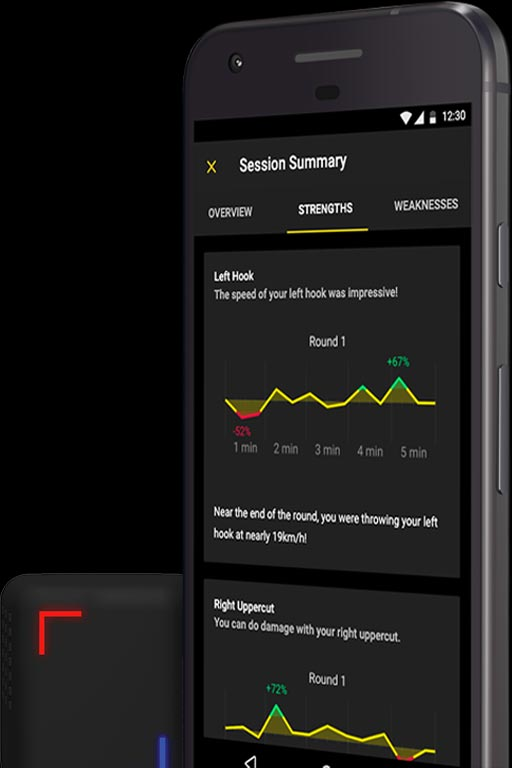
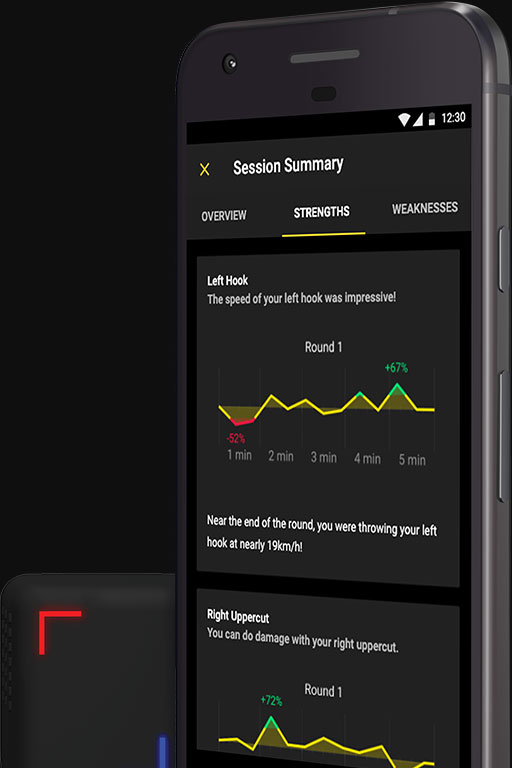
Add content to 'SparMetric' page

diff --git a/sparmetric.html b/sparmetric.html
@@ -1,31 +1,33 @@
 ---
 layout: default
+title: SparMetric - Matthew Peixoto
+theme: theme-dark
 ---
 
 <main role="main">
-  <section class="theme-dark-1 pad-t-2">
+  <section class="theme-ultradark pad-t-2">
     <div class="theme-dark-1 gutter pad-t-4 pad-b-4">
       <div class="max-length push-2">
         <img class="img-flex" src="http://placehold.it/512x768">
       </div>
       <div class="text-left-center">
         <h1 class="yotta">SparMetric</h1>
-        <p class="mega max-length push-0">SparMetric dramatically improves how you train by taking your sparring sessions to a whole new level. It provides in-depth statistics and analysis on every strike and movement. Overviews of your strengths and weaknesses. Mid-session tips to help make crucial adjustments. Achievements to keep you motivated. And the edge to help you become the best martial artist you can be.</p>
+        <p class="giga medium max-length push-0">SparMetric dramatically improves how you train by taking your sparring sessions to a whole new level. It provides in-depth statistics and analysis on every strike and movement. Overviews of your strengths and weaknesses. Mid-session tips to help make crucial adjustments. Achievements to keep you motivated. And the edge to help you become the best martial artist you can be.</p>
       </div>
     </div>
   </section>
 
-  <section class="theme-dark-1">
+  <section>
     <div class="h-w-1 relative">
       <div class="text-left-center gutter pin-c w-1 zindex-1000">
         <div class="wrapper">
-          <h2 class="giga">User Experience</h2>
-          <h3 class="zetta">Designed for martial artists by martial artists.</h3>
+          <h2 class="giga push-1-2">User Experience</h2>
+          <h3 class="zetta push-0 max-length">Designed for martial artists.</h3>
         </div>
       </div>
-      <figure class="image-sparmetric-ux h-1 w-1 push-0"></figure>
+      <figure class="image-sparmetric image-sparmetric-ux h-1 w-1 push-0"></figure>
     </div>
-    <div class="theme-dark-1 gutter pad-t-4 pad-b-4">
+    <div class="theme-ultradark gutter pad-t-4 pad-b-4">
       <div class="wrapper">
         <div class="text-center push-2">
           <img class="img-flex" src="http://placehold.it/512x512" alt="">
@@ -40,7 +42,7 @@ layout: default
         </div>
       </div>
     </div>
-    <div class="theme-dark-2 gutter pad-t-4 pad-b-4">
+    <div class="theme-dark gutter pad-t-4 pad-b-4">
       <div class="wrapper">
         <div class="text-center push-2">
           <img class="img-flex" src="http://placehold.it/512x512" alt="">
@@ -55,7 +57,7 @@ layout: default
         </div>
       </div>
     </div>
-    <div class="theme-dark-1 gutter pad-t-4 pad-b-4">
+    <div class="theme-ultradark gutter pad-t-4 pad-b-4">
       <div class="wrapper">
         <div class="text-center push-2">
           <img class="img-flex" src="http://placehold.it/512x512" alt="">
@@ -65,12 +67,12 @@ layout: default
             <h4 class="peta push-r-2 push-m-0">Every stat you’ll ever need.</h4>
           </div>
           <div class="unit s-1 m-1-2">
-            <p class="max-length-no-center push-0">SparMetric delivers every stat you’ll ever need to improve your training and keep you injury-free. These detailed stats give you and your coaches a deeper look into your skillset and are a powerful tool in helping you hone your strengths and improve on your weaknesses. And with a Headgear Sensor, you’ll know if you’ve taken too much head damage so you can stay in the best shape possible.</p>
+            <p class="max-length-no-center push-0">SparMetric gives you every stat you’ll ever need to improve your training and keep you injury-free. These detailed stats give you and your coaches a deeper look into your skillset and are a powerful tool in helping you hone your strengths and improve on your weaknesses. And with a Headgear Sensor, you’ll know if you’ve taken too much head damage so you can stay in the best shape possible.</p>
           </div>
         </div>
       </div>
     </div>
-    <div class="theme-dark-2 gutter pad-t-4 pad-b-4">
+    <div class="theme-dark gutter pad-t-4 pad-b-4">
       <div class="wrapper">
         <div class="text-center push-2">
           <img class="img-flex" src="http://placehold.it/512x512" alt="">
@@ -85,7 +87,109 @@ layout: default
         </div>
       </div>
     </div>
-
-
   </section>
+
+  <section class="theme-ultradark">
+    <div class="h-w-1 relative">
+      <div class="text-left-center gutter pin-c w-1 zindex-1000">
+        <div class="wrapper">
+          <h2 class="giga push-1-2">Personas</h2>
+          <h3 class="zetta push-0">Designed for every level.</h3>
+        </div>
+      </div>
+      <figure class="image-sparmetric image-sparmetric-personas h-1 w-1 push-0"></figure>
+    </div>
+    <div class="theme-dark gutter pad-t-4 pad-b-4">
+      <div class="wrapper">
+        <div class="text-center push-2">
+          <img class="img-flex" src="http://placehold.it/512x512" alt="">
+        </div>
+        <blockquote class="push-0">
+          <p class="max-length-no-center giga">“I’m a professional mixed martial artists. I was born to fight and have been training since I was 8 years old. SparMetric is amazing because it helps my coaches and I see the little mistakes I make during sparring that could cost me a fight. My team studies the stats for each sparring session to help me perfect my skills and keep me healthy for fights.”</p>
+          <footer>— <cite>Carlos Junior</cite></footer>
+        </blockquote>
+      </div>
+    </div>
+    <div class="theme-dark gutter pad-t-4 pad-b-4">
+      <div class="wrapper">
+        <div class="text-center push-2">
+          <img class="img-flex" src="http://placehold.it/512x512" alt="">
+        </div>
+        <blockquote class="push-0">
+          <p class="max-length-no-center giga">“I train martial arts because it keeps me in excellent shape and I love the thrill of sparring. SparMetric helps me see the improvements I’ve been making and the achievements motivate me to push harder."</p>
+          <footer>— <cite>Irene Fraser</cite></footer>
+        </blockquote>
+      </div>
+    </div>
+  </section>
+
+  <section class="theme-dark">
+    <div class="h-w-1 relative">
+      <div class="text-left-center gutter pin-c w-1 zindex-1000">
+        <div class="wrapper">
+          <h2 class="giga push-1-2">Visual Design</h2>
+          <h3 class="zetta push-0">Designed with a purpose.</h3>
+        </div>
+      </div>
+      <figure class="image-sparmetric image-sparmetric-visualdesign h-1 w-1 push-0"></figure>
+    </div>
+    <div class="theme-ultradark gutter pad-t-4 pad-b-4">
+      <div class="wrapper">
+        <div class="text-center push-2">
+          <img class="img-flex" src="http://placehold.it/512x512" alt="">
+        </div>
+        <div class="grid">
+          <div class="unit s-1 m-1-2">
+            <h4 class="peta push-r-2 push-m-0">Not just any colours.</h4>
+          </div>
+          <div class="unit s-1 m-1-2">
+            <p class="max-length-no-center push-0">SparMetric’s colour palette is sourced from Google Material and is inspired by MMA and boxing design themes. The primary colours of black and dark greys set a subdued and serious tone while the yellow accent colour adds a sense of action and energy. The secondary colours are used to represent the red and blue corners found in MMA and boxing matches are used to represent their respective stats.</p>
+          </div>
+        </div>
+      </div>
+    </div>
+     <div class="theme-dark gutter pad-t-4 pad-b-4">
+      <div class="wrapper">
+        <div class="text-center push-2">
+          <img class="img-flex" src="http://placehold.it/512x512" alt="">
+        </div>
+        <div class="grid">
+          <div class="unit s-1 m-1-2">
+            <h4 class="peta push-r-2 push-m-0">Just the right type.</h4>
+          </div>
+          <div class="unit s-1 m-1-2">
+            <p class="max-length-no-center push-0">SparMetric strictly follows the Google Material typography guidelines. Roboto is the standard typeface for Android and is extremely legible at any size and also works great on dark backgrounds. The provided Google Material typography styles are used for a consistent and familiar experience.</p>
+          </div>
+        </div>
+      </div>
+    </div>
+  </section>
+
+  <section class="theme-dark">
+    <div class="h-w-1 relative">
+      <div class="text-left-center gutter pin-c w-1 zindex-1000">
+        <div class="wrapper">
+          <h2 class="giga push-1-2">Ideation</h2>
+          <h3 class="zetta push-0">Every great idea starts with a problem and a pencil.</h3>
+        </div>
+      </div>
+      <figure class="image-sparmetric image-sparmetric-visualdesign h-1 w-1 push-0"></figure>
+    </div>
+    <div class="theme-ultradark gutter pad-t-4 pad-b-4">
+      <div class="wrapper">
+        <div class="text-center push-2">
+          <img class="img-flex" src="http://placehold.it/512x512" alt="">
+        </div>
+        <div class="grid">
+          <div class="unit s-1 m-1-2">
+            <h4 class="peta push-r-2 push-m-0">User stories.</h4>
+          </div>
+          <div class="unit s-1 m-1-2">
+            <p class="max-length-no-center push-0">Martial artists want a way to see a quick assessment of their performance in between rounds so that they can make the necessary adjustments in the following round. High-level martial artists and their coaches want a way to see detailed statistics about each sparring session so that they can perfect their training and skill set. Lower level martial artists want a way to unlock achievements to help them set goals and motivate them to improve.</p>
+          </div>
+        </div>
+      </div>
+    </div>
+  </section>
+
 </main>

diff --git a/css/sparmetric.css b/css/sparmetric.css
@@ -3,11 +3,22 @@
   color: #fff;
 }
 
-.image-sparmetric-ux {
-  background-image: url("../images/sparmetric/sparmetric-ux.jpg");
+.image-sparmetric {
   background-repeat: no-repeat;
   background-size: cover;
-  background-position: center center;
+  background-position: 25% center;
+}
+
+.image-sparmetric-ux {
+  background-image: url("../images/sparmetric/sparmetric-ux.jpg");
+}
+
+.image-sparmetric-personas {
+  background-image: url("../images/sparmetric/sparmetric-personas.jpg");
+}
+
+.image-sparmetric-visualdesign {
+  background-image: url("../images/sparmetric/sparmetric-visualdesign.jpg");
 }
 
 .image-get-connected {

diff --git a/_includes/nav.html b/_includes/nav.html
@@ -1,5 +1,5 @@
- <nav class="nav text-center" role="navigation">
-    <a class="nav-link icon-link ib island-1-2" href="{{site.baseurl}}/index.html">
-      <h1 class="kilo push-0">Matthew Peixoto</h1>
-    </a>
-  </nav>
+<nav class="nav text-center" role="navigation">
+  <a class="nav-link icon-link ib island-1-2" href="{{site.baseurl}}/index.html">
+    <h1 class="kilo push-0">Matthew Peixoto</h1>
+  </a>
+</nav>
